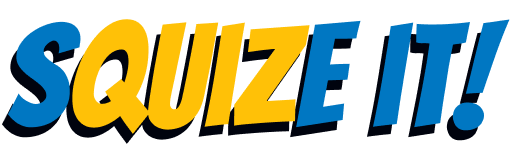
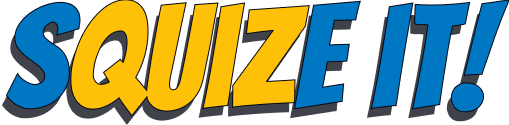
Alterações no header

diff --git a/src/components/Header/index.js b/src/components/Header/index.js
@@ -1,3 +1,4 @@
+import { Typography } from "@mui/material";
 import React from "react";
 import AppName from "../../asserts/images/appname.png";
 import { StyledHeader } from "./style";
@@ -5,7 +6,12 @@ import { StyledHeader } from "./style";
 export const Header = () => {
   return (
     <StyledHeader>
-      <img src={AppName} alt="Squize it" />
+      <h1>
+        <img src={AppName} alt="Squize it" />
+      </h1>
+      <Typography variant="h6" component="h2" color={"#fff"}>
+        Até onde você consegue <span style={{ color: "#ffc107" }}>chegar</span>?
+      </Typography>
     </StyledHeader>
   );
 };

diff --git a/src/index.js b/src/index.js
@@ -9,13 +9,13 @@ import { ThemeProvider } from "@emotion/react";
 
 ReactDOM.render(
   <React.StrictMode>
-    <ThemeProvider theme={MUIStyles}>
-      <StyledEngineProvider injectFirst>
+    <StyledEngineProvider injectFirst>
+      <ThemeProvider theme={MUIStyles}>
         <CssBaseline />
         <GlobalStyle />
         <App />
-      </StyledEngineProvider>
-    </ThemeProvider>
+      </ThemeProvider>
+    </StyledEngineProvider>
   </React.StrictMode>,
   document.getElementById("root"),
 );

diff --git a/src/App.js b/src/App.js
@@ -1,10 +1,15 @@
 import { Button, Container } from "@mui/material";
-import { Header } from "./components";
+import { Header, Wrapper } from "./components";
 
 function App() {
   return (
     <Container maxWidth={"md"}>
       <Header />
+      {/* <Wrapper>
+        <Button variant={"contained"} color={"secondary"}>
+          Test
+        </Button>
+      </Wrapper> */}
     </Container>
   );
 }

diff --git a/src/asserts/style/MUIStyles.js b/src/asserts/style/MUIStyles.js
@@ -2,12 +2,16 @@ import { createTheme } from "@mui/material";
 
 const MUIStyles = createTheme({
   palette: {
+    type: "light",
     primary: {
-      main: "#42a5f5",
+      main: "#219ebc",
     },
     secondary: {
       main: "#ffc107",
     },
+  },
+  typography: {
+    fontFamily: "Raleway",
   },
 });
 

diff --git a/src/components/Wrapper/index.js b/src/components/Wrapper/index.js
@@ -1,0 +1,16 @@
+import React from "react";
+import { Box } from "@mui/system";
+
+export const Wrapper = ({ children }) => {
+  return (
+    <Box
+      sx={{
+        backgroundColor: "#fff",
+        borderRadius: "6px",
+        overflow: "hidden",
+      }}
+    >
+      {children}
+    </Box>
+  );
+};

diff --git a/src/components/index.js b/src/components/index.js
@@ -1,3 +1,4 @@
 import { Header } from "./Header";
+import { Wrapper } from "./Wrapper";
 
-export { Header };
+export { Header, Wrapper };
